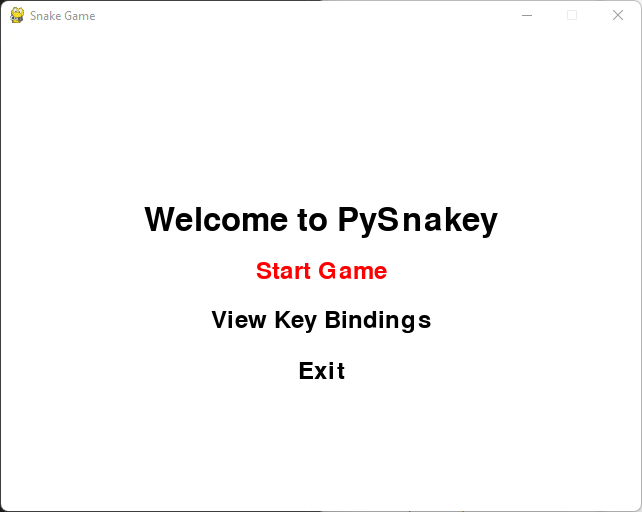
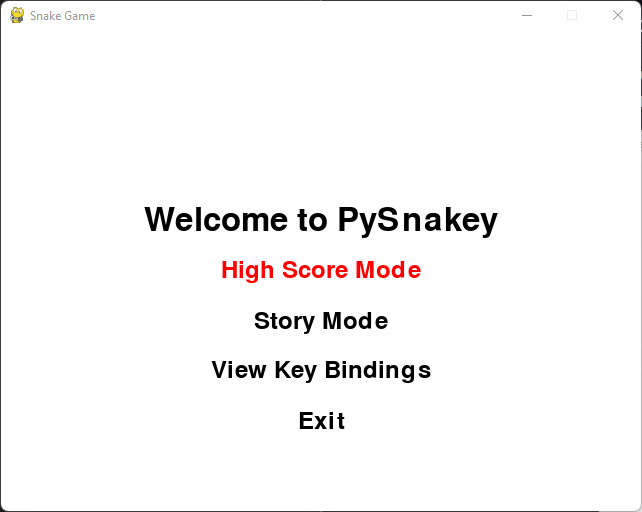
Add pictures and upgrade README.md

diff --git a/snake_game.py b/snake_game.py
@@ -124,7 +124,7 @@ class SnakeGame:
                     food = self.food
                     obstacles = None
                     food_objective = None
-                    level_text = "High score mode"
+                    level_text = "   High score mode"
                     consumed_text = f"Score: {snake.food_consumed * 10}"
                 else:
                     snake = self.level.snake

diff --git a/README.md b/README.md
@@ -17,11 +17,14 @@ Traditional snake game written in pygame with Python 3.11.9
 <img src="src/assets/images/main menu.png" alt="Main menu screenshot" width="600">
 
 - Bottom section is left unreachable for the consumables per level and the level itself
+- Different game modes (Story mode and high-score)
+    - High score
 
-<img src="src/assets/images/first level with bottom row info being unreachable.png" alt="First level with unreachable info row screenshot" width="600">
-
-
-- Different game modes (Story mode and high-score) (developing)
+        <img src="src/assets/images/high_score_mode.png" alt="High score mode display" width="600">
+    
+    - Story mode
+        
+        <img src="src/assets/images/first level with bottom row info being unreachable.png" alt="First level with unreachable info row screenshot" width="600">
 
 ## Game modes
 - High score mode 
@@ -32,7 +35,7 @@ Traditional snake game written in pygame with Python 3.11.9
 - Story mode with levels
     * Each level has unique goals like number of food items to consume
     * The higher the level, the higher the difficulty (not yet developed)
-        * Food items have timer
         * Speed can increase (maybe add items to increase speed ?)
+        * Food items could have times 
         * Varying level dimensions (?)
         * Obstacles in higher levels (?)
